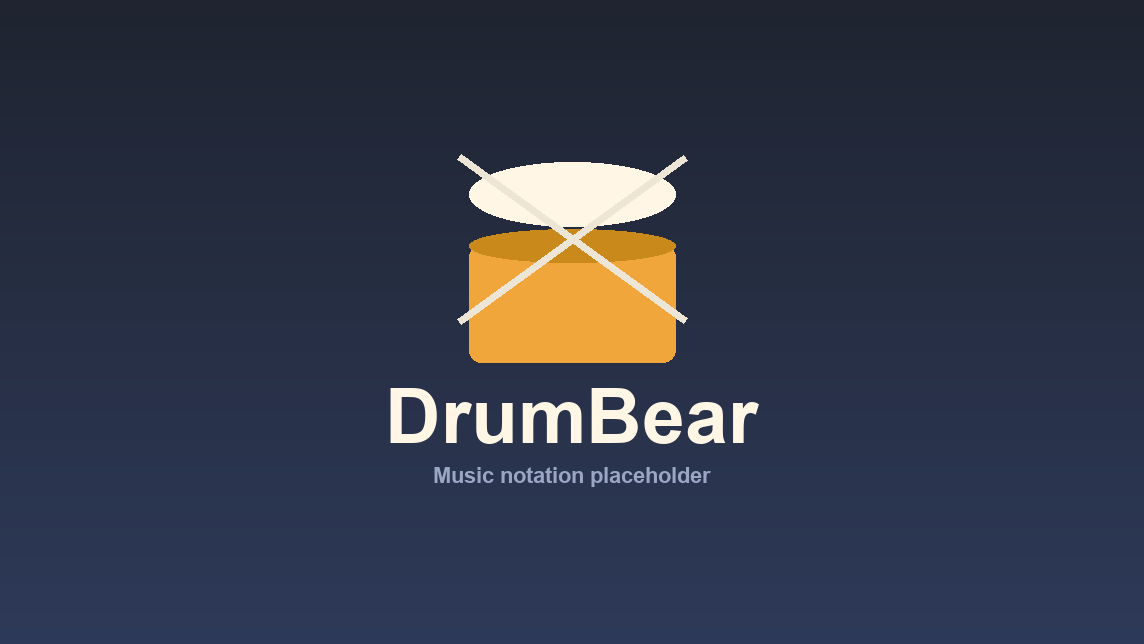
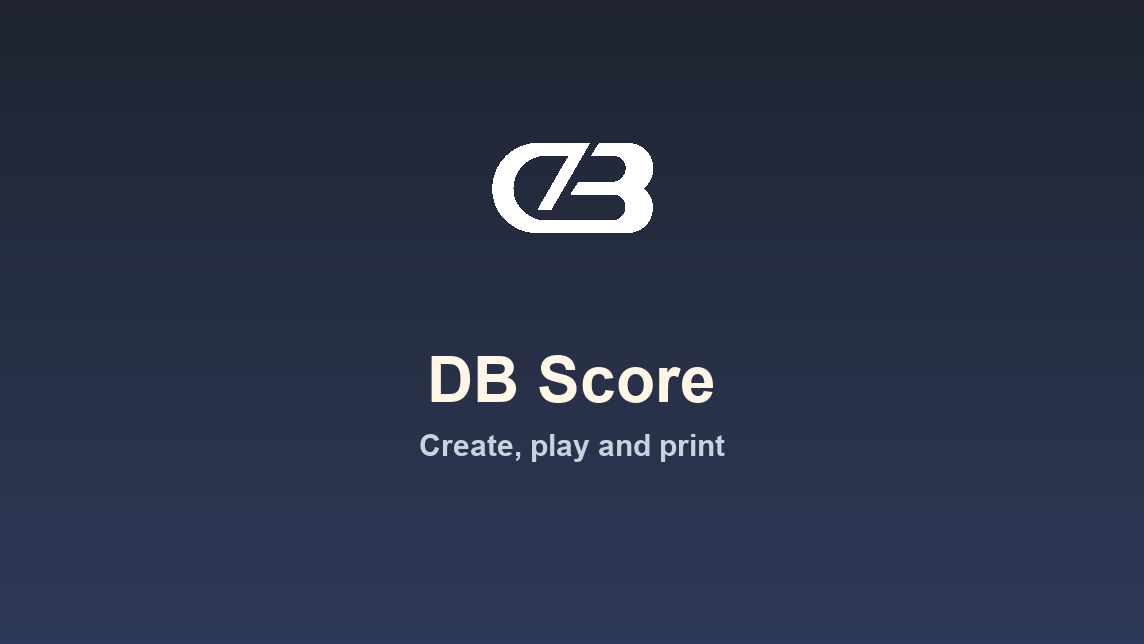
Fix welcome branding, QML resource paths, and disable Learn
- Regenerate the welcome-dialog carousel images with the DB Score logo.
- Fix hardcoded qrc:/qt/qml/MuseScore/... resource paths that broke the
  main window and style editor after the QML module URI rename.
- Stop registering the Learn module so it no longer performs network
  calls to the (nonexistent) drumbearai.com playlist endpoints.

Changed region(s): [[0.3365, 0.2174, 0.6731, 0.7764]]

diff --git a/src/notationscene/widgets/editstyle.cpp b/src/notationscene/widgets/editstyle.cpp
@@ -834,7 +834,7 @@ void EditStyle::classBegin()
 
     auto noteFlagsTypeSelector = createQmlWidget(
         groupBox_noteFlags,
-        QUrl(QString::fromUtf8("qrc:/qt/qml/MuseScore/NotationScene/styledialog/NoteFlagsTypeSelector.qml")));
+        QUrl(QString::fromUtf8("qrc:/qt/qml/DBScore/NotationScene/styledialog/NoteFlagsTypeSelector.qml")));
     noteFlagsTypeSelector.widget->setMinimumSize(224, 70);
     groupBox_noteFlags->layout()->addWidget(noteFlagsTypeSelector.widget);
 
@@ -844,7 +844,7 @@ void EditStyle::classBegin()
 
     auto restOffsetSelector = createQmlWidget(
         groupBox_rests,
-        QUrl(QString::fromUtf8("qrc:/qt/qml/MuseScore/NotationScene/styledialog/RestOffsetSelector.qml")));
+        QUrl(QString::fromUtf8("qrc:/qt/qml/DBScore/NotationScene/styledialog/RestOffsetSelector.qml")));
     restOffsetSelector.widget->setMinimumSize(224, 70);
     groupBox_rests->layout()->addWidget(restOffsetSelector.widget);
 
@@ -862,7 +862,7 @@ void EditStyle::classBegin()
 
     auto beamsPage = createQmlWidget(
         groupBox_beams,
-        QUrl(QString::fromUtf8("qrc:/qt/qml/MuseScore/NotationScene/styledialog/BeamsPage.qml")));
+        QUrl(QString::fromUtf8("qrc:/qt/qml/DBScore/NotationScene/styledialog/BeamsPage.qml")));
     beamsPage.widget->setMinimumSize(224, 418);
     groupBox_beams->layout()->addWidget(beamsPage.widget);
 
@@ -872,7 +872,7 @@ void EditStyle::classBegin()
 
     auto bendsPage = createQmlWidget(
         PageBend,
-        QUrl(QString::fromUtf8("qrc:/qt/qml/MuseScore/NotationScene/styledialog/BendsPage.qml")));
+        QUrl(QString::fromUtf8("qrc:/qt/qml/DBScore/NotationScene/styledialog/BendsPage.qml")));
     bendsPage.widget->setMinimumSize(224, 60);
     connect(bendsPage.view->rootObject(), SIGNAL(goToTextStylePage(QString)), this, SLOT(goToTextStylePage(QString)));
     PageBend->layout()->addWidget(bendsPage.widget);
@@ -883,7 +883,7 @@ void EditStyle::classBegin()
 
     auto slursAndTiesPage = createQmlWidget(
         PageSlursTies,
-        QUrl(QString::fromUtf8("qrc:/qt/qml/MuseScore/NotationScene/styledialog/SlursAndTiesPage.qml")));
+        QUrl(QString::fromUtf8("qrc:/qt/qml/DBScore/NotationScene/styledialog/SlursAndTiesPage.qml")));
     PageSlursTies->layout()->addWidget(slursAndTiesPage.widget);
 
     // ====================================================
@@ -892,7 +892,7 @@ void EditStyle::classBegin()
 
     auto accidentalsPage = createQmlWidget(
         PageAccidentals,
-        QUrl(QString::fromUtf8("qrc:/qt/qml/MuseScore/NotationScene/styledialog/AccidentalsPage.qml")));
+        QUrl(QString::fromUtf8("qrc:/qt/qml/DBScore/NotationScene/styledialog/AccidentalsPage.qml")));
     PageAccidentals->layout()->addWidget(accidentalsPage.widget);
 
     // ====================================================
@@ -901,7 +901,7 @@ void EditStyle::classBegin()
 
     auto fretboardsPage = createQmlWidget(
         PageFretboardDiagrams,
-        QUrl(QString::fromUtf8("qrc:/qt/qml/MuseScore/NotationScene/styledialog/FretboardsPage.qml")));
+        QUrl(QString::fromUtf8("qrc:/qt/qml/DBScore/NotationScene/styledialog/FretboardsPage.qml")));
     connect(fretboardsPage.view->rootObject(), SIGNAL(goToTextStylePage(QString)), this, SLOT(goToTextStylePage(QString)));
     PageFretboardDiagrams->layout()->addWidget(fretboardsPage.widget);
 
@@ -911,7 +911,7 @@ void EditStyle::classBegin()
 
     auto hoposTappingPage = createQmlWidget(
         hoposPageWidget,
-        QUrl(QString::fromUtf8("qrc:/qt/qml/MuseScore/NotationScene/styledialog/HammerOnPullOffTappingPage.qml")));
+        QUrl(QString::fromUtf8("qrc:/qt/qml/DBScore/NotationScene/styledialog/HammerOnPullOffTappingPage.qml")));
     hoposTappingPage.widget->setMinimumSize(224, 400);
     connect(hoposTappingPage.view->rootObject(), SIGNAL(goToTextStylePage(QString)), this, SLOT(goToTextStylePage(QString)));
     hoposPageWidget->layout()->addWidget(hoposTappingPage.widget);
@@ -922,7 +922,7 @@ void EditStyle::classBegin()
 
     auto glissandoSection = createQmlWidget(
         groupBox_glissando,
-        QUrl(QString::fromUtf8("qrc:/qt/qml/MuseScore/NotationScene/styledialog/GlissandoSection.qml")));
+        QUrl(QString::fromUtf8("qrc:/qt/qml/DBScore/NotationScene/styledialog/GlissandoSection.qml")));
     glissandoSection.widget->setMinimumSize(224, 284);
     connect(glissandoSection.view->rootObject(), SIGNAL(goToTextStylePage(QString)), this, SLOT(goToTextStylePage(QString)));
     groupBox_glissando->layout()->addWidget(glissandoSection.widget);
@@ -933,7 +933,7 @@ void EditStyle::classBegin()
 
     auto noteLineSection = createQmlWidget(
         groupBox_noteline,
-        QUrl(QString::fromUtf8("qrc:/qt/qml/MuseScore/NotationScene/styledialog/NoteLineSection.qml")));
+        QUrl(QString::fromUtf8("qrc:/qt/qml/DBScore/NotationScene/styledialog/NoteLineSection.qml")));
     noteLineSection.widget->setMinimumSize(224, 200);
     connect(noteLineSection.view->rootObject(), SIGNAL(goToTextStylePage(QString)), this, SLOT(goToTextStylePage(QString)));
     groupBox_noteline->layout()->addWidget(noteLineSection.widget);
@@ -944,7 +944,7 @@ void EditStyle::classBegin()
 
     auto clefKeyTimeSigPage = createQmlWidget(
         clefTimeKeySigPage,
-        QUrl(QString::fromUtf8("qrc:/qt/qml/MuseScore/NotationScene/styledialog/ClefKeyTimeSigPage.qml")));
+        QUrl(QString::fromUtf8("qrc:/qt/qml/DBScore/NotationScene/styledialog/ClefKeyTimeSigPage.qml")));
     clefKeyTimeSigPage.widget->setMinimumSize(224, 400);
     clefTimeKeySigPage->layout()->addWidget(clefKeyTimeSigPage.widget);
 
@@ -954,7 +954,7 @@ void EditStyle::classBegin()
 
     auto repeatBarlinesSection = createQmlWidget(
         repeatBarlinesGroupBox,
-        QUrl(QString::fromUtf8("qrc:/qt/qml/MuseScore/NotationScene/styledialog/RepeatBarlinesSection.qml")));
+        QUrl(QString::fromUtf8("qrc:/qt/qml/DBScore/NotationScene/styledialog/RepeatBarlinesSection.qml")));
     repeatBarlinesSection.widget->setMinimumSize(224, 90);
     repeatBarlinesGroupBox->layout()->addWidget(repeatBarlinesSection.widget);
 
@@ -964,7 +964,7 @@ void EditStyle::classBegin()
 
     auto chordSymbolsPageWidget = createQmlWidget(
         chordSymbolsPage,
-        QUrl(QString::fromUtf8("qrc:/qt/qml/MuseScore/NotationScene/styledialog/ChordSymbolsPage.qml")));
+        QUrl(QString::fromUtf8("qrc:/qt/qml/DBScore/NotationScene/styledialog/ChordSymbolsPage.qml")));
     chordSymbolsPageWidget.widget->setMinimumSize(224, 400);
     connect(chordSymbolsPageWidget.view->rootObject(), SIGNAL(goToTextStylePage(QString)), this, SLOT(goToTextStylePage(QString)));
     chordSymbolsPage->layout()->addWidget(chordSymbolsPageWidget.widget);
@@ -975,7 +975,7 @@ void EditStyle::classBegin()
 
     auto voltasPage = createQmlWidget(
         voltasPageWidget,
-        QUrl(QString::fromUtf8("qrc:/qt/qml/MuseScore/NotationScene/styledialog/VoltasPage.qml")));
+        QUrl(QString::fromUtf8("qrc:/qt/qml/DBScore/NotationScene/styledialog/VoltasPage.qml")));
     voltasPage.widget->setMinimumSize(504, 400);
     voltasPageWidget->layout()->addWidget(voltasPage.widget);
 
@@ -985,7 +985,7 @@ void EditStyle::classBegin()
 
     auto barNumbersPage = createQmlWidget(
         pageMeasureNumbers,
-        QUrl(QString::fromUtf8("qrc:/qt/qml/MuseScore/NotationScene/styledialog/MeasureNumbersPage.qml")));
+        QUrl(QString::fromUtf8("qrc:/qt/qml/DBScore/NotationScene/styledialog/MeasureNumbersPage.qml")));
     barNumbersPage.widget->setMinimumSize(224, 400);
     pageMeasureNumbers->layout()->addWidget(barNumbersPage.widget);
     connect(barNumbersPage.view->rootObject(), SIGNAL(goToTextStylePage(int)), this, SLOT(goToTextStylePage(int)));
@@ -996,7 +996,7 @@ void EditStyle::classBegin()
 
     auto tupletCenteringSelector = createQmlWidget(
         groupBox_tuplets_properties,
-        QUrl(QString::fromUtf8("qrc:/qt/qml/MuseScore/NotationScene/styledialog/TupletCenteringSelector.qml")));
+        QUrl(QString::fromUtf8("qrc:/qt/qml/DBScore/NotationScene/styledialog/TupletCenteringSelector.qml")));
     tupletCenteringSelector.widget->setMinimumSize(288, 88);
     groupBox_tuplets_properties->layout()->addWidget(tupletCenteringSelector.widget);
 
@@ -1006,7 +1006,7 @@ void EditStyle::classBegin()
 
     auto repeatPlayCountSection = createQmlWidget(
         PageRepeats,
-        QUrl(QString::fromUtf8("qrc:/qt/qml/MuseScore/NotationScene/styledialog/RepeatPage.qml")));
+        QUrl(QString::fromUtf8("qrc:/qt/qml/DBScore/NotationScene/styledialog/RepeatPage.qml")));
     repeatPlayCountSection.widget->setMinimumSize(224, 500);
     connect(repeatPlayCountSection.view->rootObject(), SIGNAL(goToTextStylePage(QString)), this, SLOT(goToTextStylePage(QString)));
     PageRepeats->layout()->addWidget(repeatPlayCountSection.widget);
@@ -1017,7 +1017,7 @@ void EditStyle::classBegin()
 
     auto instrNamesPage = createQmlWidget(
         pageInstrumentNames,
-        QUrl(QString::fromUtf8("qrc:/qt/qml/MuseScore/NotationScene/styledialog/InstrumentNamesPage.qml")));
+        QUrl(QString::fromUtf8("qrc:/qt/qml/DBScore/NotationScene/styledialog/InstrumentNamesPage.qml")));
     instrNamesPage.widget->setMinimumSize(224, 400);
     pageInstrumentNames->layout()->addWidget(instrNamesPage.widget);
 
@@ -1027,7 +1027,7 @@ void EditStyle::classBegin()
 
     auto staveSharingPage = createQmlWidget(
         PageStaveSharing,
-        QUrl(QString::fromUtf8("qrc:/qt/qml/MuseScore/NotationScene/styledialog/StaveSharingPage.qml")));
+        QUrl(QString::fromUtf8("qrc:/qt/qml/DBScore/NotationScene/styledialog/StaveSharingPage.qml")));
     staveSharingPage.widget->setMinimumSize(224, 400);
     PageStaveSharing->layout()->addWidget(staveSharingPage.widget);
 

diff --git a/src/app/appfactory.cpp b/src/app/appfactory.cpp
@@ -426,7 +426,6 @@ std::shared_ptr<muse::IApplication> AppFactory::newGuiApp(const std::shared_ptr<
     app->addModule(new mu::instrumentsscene::InstrumentsSceneModule());
     app->addModule(new muse::extensions::ExtensionsModule());
     app->addModule(new muse::languages::LanguagesModule());
-    app->addModule(new muse::learn::LearnModule());
     app->addModule(new muse::mi::MultiWindowsModule());
     app->addModule(new mu::musesounds::MuseSoundsModule());
     app->addModule(new mu::notation::NotationModule());

diff --git a/src/app/internal/guiapp.cpp b/src/app/internal/guiapp.cpp
@@ -97,7 +97,7 @@ std::shared_ptr<muse::CmdOptions> MuseScoreGuiApp::makeContextOptions(const muse
 
 QString MuseScoreGuiApp::mainWindowQmlPath(const QString& platform) const
 {
-    return QString(":/qt/qml/MuseScore/AppShell/platform/%1/Main.qml").arg(platform);
+    return QString(":/qt/qml/DBScore/AppShell/platform/%1/Main.qml").arg(platform);
 }
 
 void MuseScoreGuiApp::doStartupScenario(const muse::modularity::ContextPtr& ctxId)

diff --git a/src/musesounds/internal/musesoundscheckupdatescenario.cpp b/src/musesounds/internal/musesoundscheckupdatescenario.cpp
@@ -147,7 +147,7 @@ muse::Ret MuseSoundsCheckUpdateScenario::showReleaseInfo(const ReleaseInfo& info
     }
 
     if (info.imageUrl.empty()) {
-        query.addParam("imageUrl", Val("qrc:/qt/qml/MuseScore/MuseSounds/resources/muse_sounds_promo.png"));
+        query.addParam("imageUrl", Val("qrc:/qt/qml/DBScore/MuseSounds/resources/muse_sounds_promo.png"));
     } else {
         query.addParam("imageUrl", Val(info.imageUrl));
     }

diff --git a/src/musesounds/qml/MuseScore/MuseSounds/devtools/musesoundsdevtoolsmodel.cpp b/src/musesounds/qml/MuseScore/MuseSounds/devtools/musesoundsdevtoolsmodel.cpp
@@ -385,7 +385,7 @@ void MuseSoundsDevToolsModel::openUpdateDialog()
         }
     }
     if (imageUrl.isEmpty()) {
-        imageUrl = "qrc:/qt/qml/MuseScore/MuseSounds/resources/muse_sounds_promo.png";
+        imageUrl = "qrc:/qt/qml/DBScore/MuseSounds/resources/muse_sounds_promo.png";
     }
     query.addParam("imageUrl", Val(imageUrl.toStdString()));
 
